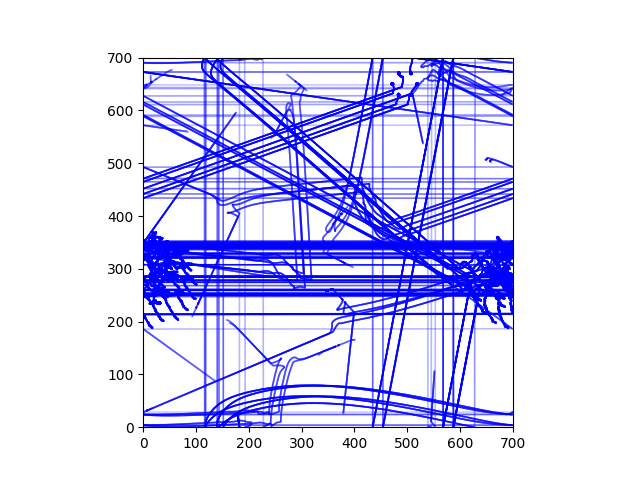
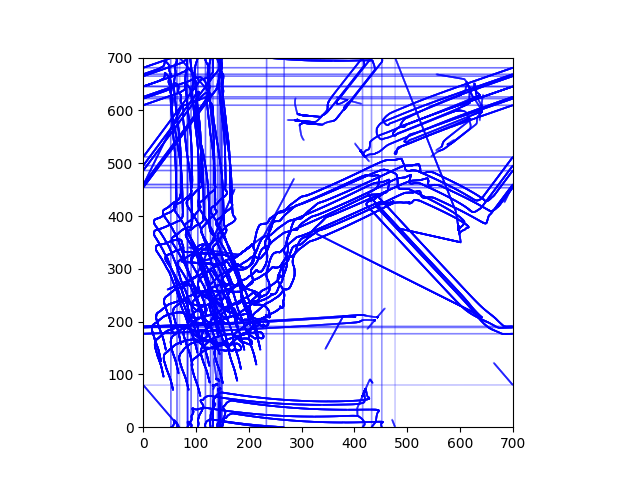
set dt=0.1

Changed region(s): [[0.2188, 0.125, 0.8125, 0.9062]]

diff --git a/main.py b/main.py
@@ -52,6 +52,13 @@ def parse_args():
     return parser.parse_args()
 
 
+def exponential_smoothing(data, alpha=0.1):
+    smoothed = [data[0]]  # first value as seed
+    for x in data[1:]:
+        smoothed.append(alpha * x + (1 - alpha) * smoothed[-1])
+    return smoothed
+
+
 # Calculate the gamma [-1,1] value that represents the drectional alignment. If gamma is approx 1, it indicates near-parallel velocities (strong alignment) and values near or below 0 indicat-ing misalignment. By normalizing direction, this metric isolates directional consensus from speed differences
 def directional_alignment_metric(boid, flock, neighbor):
     vx_i, vy_i = boid.get_velocity()
@@ -335,7 +342,7 @@ def update(flock, t, gamma_t, MAX_SPEED, mode):
     # def update(flock, t, gamma_t):
 
     # Update time step
-    dt = 0.50
+    dt = 0.10
     t += dt
 
     # Update each boid individually
@@ -470,8 +477,8 @@ def main():
 
         cv2.destroyAllWindows()
 
-        plt.plot(gamma_t)
-        # plt.savefig("gamma_t_plot.png")
+        gamma_smoothed = exponential_smoothing(gamma_t, alpha=0.1)
+        plt.plot(gamma_smoothed)
         plt.savefig(f"gamma_t_plot_epoch_{epoch}.png")
         plt.close()
 